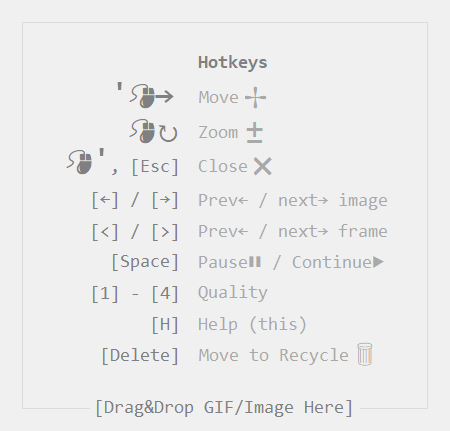
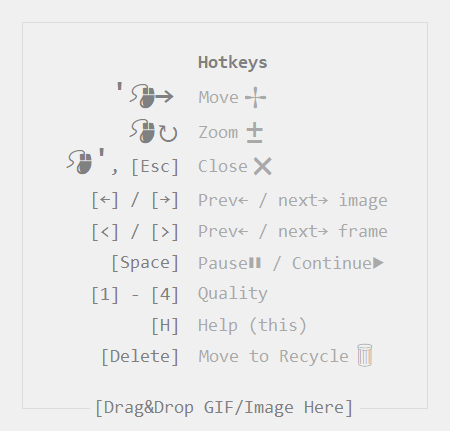
help rearranged, help.png updated

diff --git a/gifer/GiferForm.Designer.cs b/gifer/GiferForm.Designer.cs
@@ -127,7 +127,7 @@
 			this.labelSpaceText.AutoSize = true;
 			this.labelSpaceText.Font = new System.Drawing.Font("Consolas", 14.25F, System.Drawing.FontStyle.Regular, System.Drawing.GraphicsUnit.Point, ((byte)(204)));
 			this.labelSpaceText.ForeColor = System.Drawing.Color.DarkGray;
-			this.labelSpaceText.Location = new System.Drawing.Point(172, 243);
+			this.labelSpaceText.Location = new System.Drawing.Point(172, 244);
 			this.labelSpaceText.Name = "labelSpaceText";
 			this.labelSpaceText.Size = new System.Drawing.Size(197, 22);
 			this.labelSpaceText.TabIndex = 44;
@@ -138,7 +138,7 @@
 			this.labelSpaceKey.AutoSize = true;
 			this.labelSpaceKey.Font = new System.Drawing.Font("Consolas", 14.25F, System.Drawing.FontStyle.Regular, System.Drawing.GraphicsUnit.Point, ((byte)(204)));
 			this.labelSpaceKey.ForeColor = System.Drawing.Color.Gray;
-			this.labelSpaceKey.Location = new System.Drawing.Point(84, 242);
+			this.labelSpaceKey.Location = new System.Drawing.Point(84, 243);
 			this.labelSpaceKey.Name = "labelSpaceKey";
 			this.labelSpaceKey.Size = new System.Drawing.Size(80, 22);
 			this.labelSpaceKey.TabIndex = 43;
@@ -193,7 +193,7 @@
 			this.labelQualityText.AutoSize = true;
 			this.labelQualityText.Font = new System.Drawing.Font("Consolas", 14.25F, System.Drawing.FontStyle.Regular, System.Drawing.GraphicsUnit.Point, ((byte)(204)));
 			this.labelQualityText.ForeColor = System.Drawing.Color.DarkGray;
-			this.labelQualityText.Location = new System.Drawing.Point(172, 273);
+			this.labelQualityText.Location = new System.Drawing.Point(172, 274);
 			this.labelQualityText.Name = "labelQualityText";
 			this.labelQualityText.Size = new System.Drawing.Size(80, 22);
 			this.labelQualityText.TabIndex = 38;
@@ -204,7 +204,7 @@
 			this.labelQualityKey.AutoSize = true;
 			this.labelQualityKey.Font = new System.Drawing.Font("Consolas", 14.25F, System.Drawing.FontStyle.Regular, System.Drawing.GraphicsUnit.Point, ((byte)(204)));
 			this.labelQualityKey.ForeColor = System.Drawing.Color.Gray;
-			this.labelQualityKey.Location = new System.Drawing.Point(64, 274);
+			this.labelQualityKey.Location = new System.Drawing.Point(64, 275);
 			this.labelQualityKey.Name = "labelQualityKey";
 			this.labelQualityKey.Size = new System.Drawing.Size(100, 22);
 			this.labelQualityKey.TabIndex = 37;
@@ -270,7 +270,7 @@
 			this.labelDeleteIcon.AutoSize = true;
 			this.labelDeleteIcon.Font = new System.Drawing.Font("Consolas", 26.25F, System.Drawing.FontStyle.Regular, System.Drawing.GraphicsUnit.Point, ((byte)(204)));
 			this.labelDeleteIcon.ForeColor = System.Drawing.Color.DarkGray;
-			this.labelDeleteIcon.Location = new System.Drawing.Point(326, 324);
+			this.labelDeleteIcon.Location = new System.Drawing.Point(326, 325);
 			this.labelDeleteIcon.Name = "labelDeleteIcon";
 			this.labelDeleteIcon.Size = new System.Drawing.Size(39, 41);
 			this.labelDeleteIcon.TabIndex = 23;
@@ -303,7 +303,7 @@
 			this.labelHelpText.AutoSize = true;
 			this.labelHelpText.Font = new System.Drawing.Font("Consolas", 14.25F, System.Drawing.FontStyle.Regular, System.Drawing.GraphicsUnit.Point, ((byte)(204)));
 			this.labelHelpText.ForeColor = System.Drawing.Color.DarkGray;
-			this.labelHelpText.Location = new System.Drawing.Point(172, 305);
+			this.labelHelpText.Location = new System.Drawing.Point(172, 306);
 			this.labelHelpText.Name = "labelHelpText";
 			this.labelHelpText.Size = new System.Drawing.Size(120, 22);
 			this.labelHelpText.TabIndex = 26;
@@ -314,7 +314,7 @@
 			this.labelHelpKey.AutoSize = true;
 			this.labelHelpKey.Font = new System.Drawing.Font("Consolas", 14.25F, System.Drawing.FontStyle.Regular, System.Drawing.GraphicsUnit.Point, ((byte)(204)));
 			this.labelHelpKey.ForeColor = System.Drawing.Color.Gray;
-			this.labelHelpKey.Location = new System.Drawing.Point(124, 305);
+			this.labelHelpKey.Location = new System.Drawing.Point(124, 306);
 			this.labelHelpKey.Name = "labelHelpKey";
 			this.labelHelpKey.Size = new System.Drawing.Size(40, 22);
 			this.labelHelpKey.TabIndex = 25;
@@ -336,7 +336,7 @@
 			this.labelDeleteText.AutoSize = true;
 			this.labelDeleteText.Font = new System.Drawing.Font("Consolas", 14.25F, System.Drawing.FontStyle.Regular, System.Drawing.GraphicsUnit.Point, ((byte)(204)));
 			this.labelDeleteText.ForeColor = System.Drawing.Color.DarkGray;
-			this.labelDeleteText.Location = new System.Drawing.Point(173, 336);
+			this.labelDeleteText.Location = new System.Drawing.Point(173, 337);
 			this.labelDeleteText.Name = "labelDeleteText";
 			this.labelDeleteText.Size = new System.Drawing.Size(160, 22);
 			this.labelDeleteText.TabIndex = 24;
@@ -358,7 +358,7 @@
 			this.labelDeleteKey.AutoSize = true;
 			this.labelDeleteKey.Font = new System.Drawing.Font("Consolas", 14.25F, System.Drawing.FontStyle.Regular, System.Drawing.GraphicsUnit.Point, ((byte)(204)));
 			this.labelDeleteKey.ForeColor = System.Drawing.Color.Gray;
-			this.labelDeleteKey.Location = new System.Drawing.Point(74, 336);
+			this.labelDeleteKey.Location = new System.Drawing.Point(74, 337);
 			this.labelDeleteKey.Name = "labelDeleteKey";
 			this.labelDeleteKey.Size = new System.Drawing.Size(90, 22);
 			this.labelDeleteKey.TabIndex = 7;
